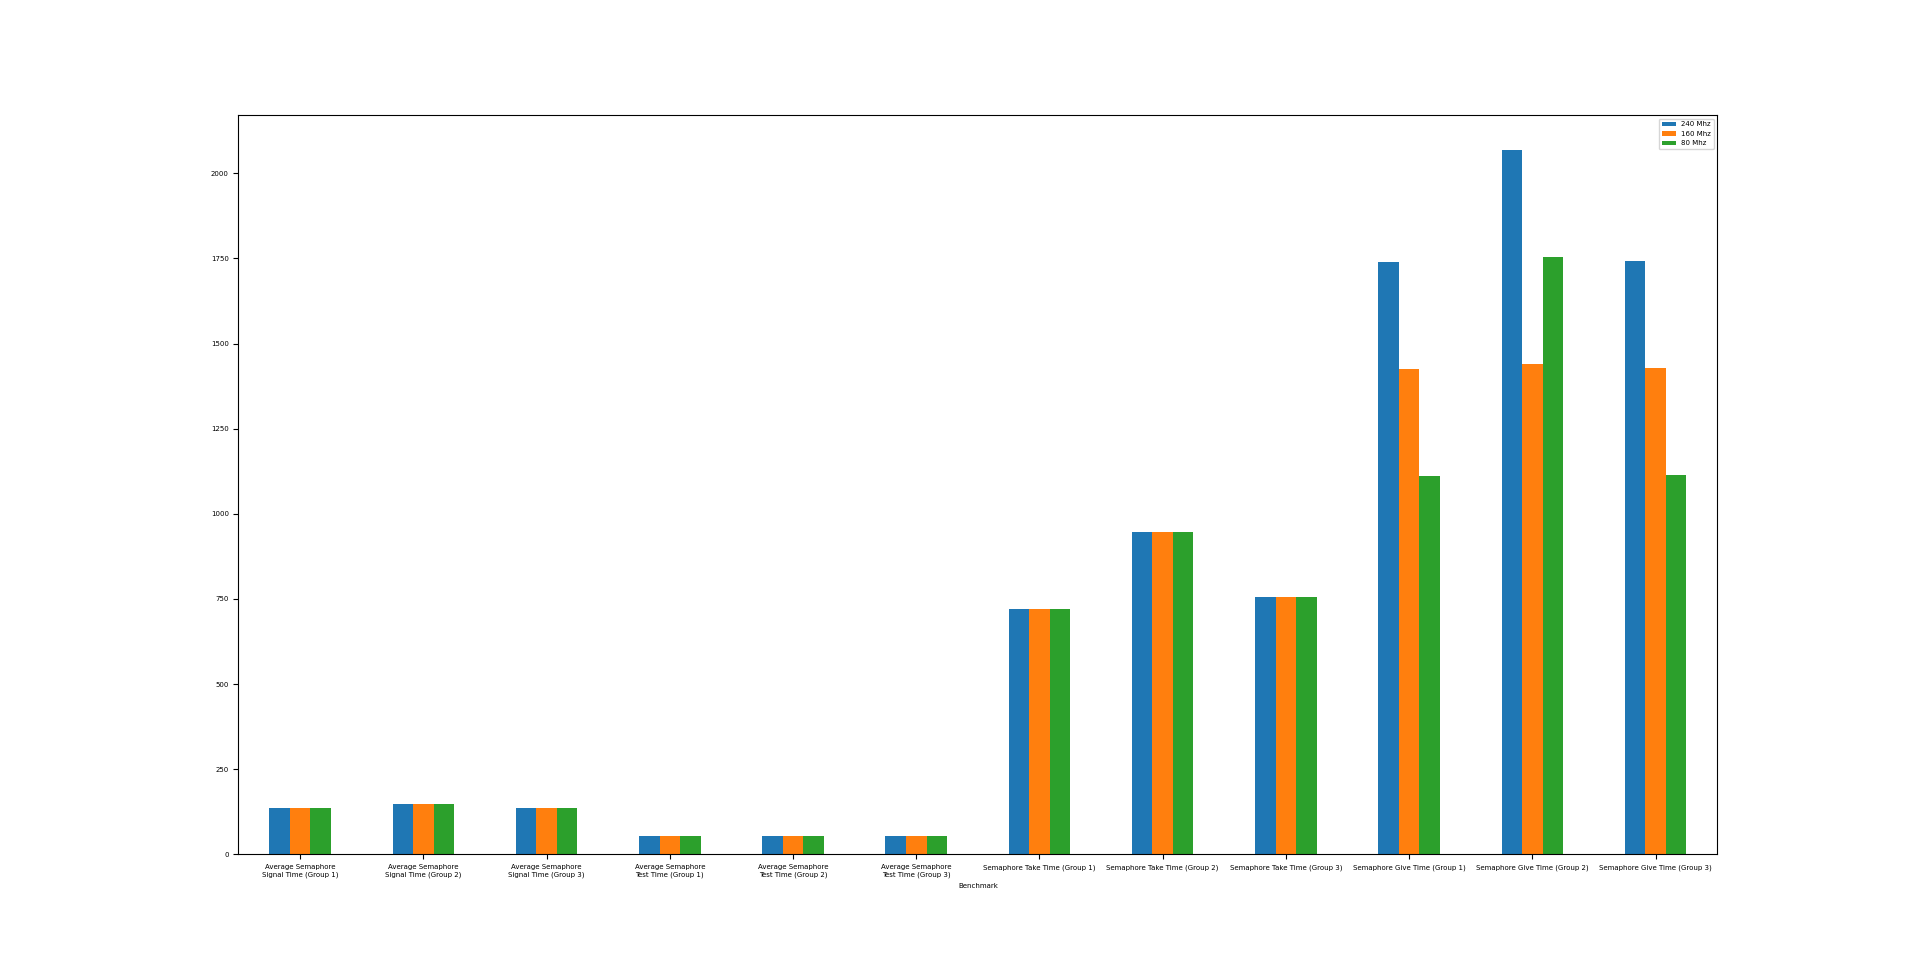
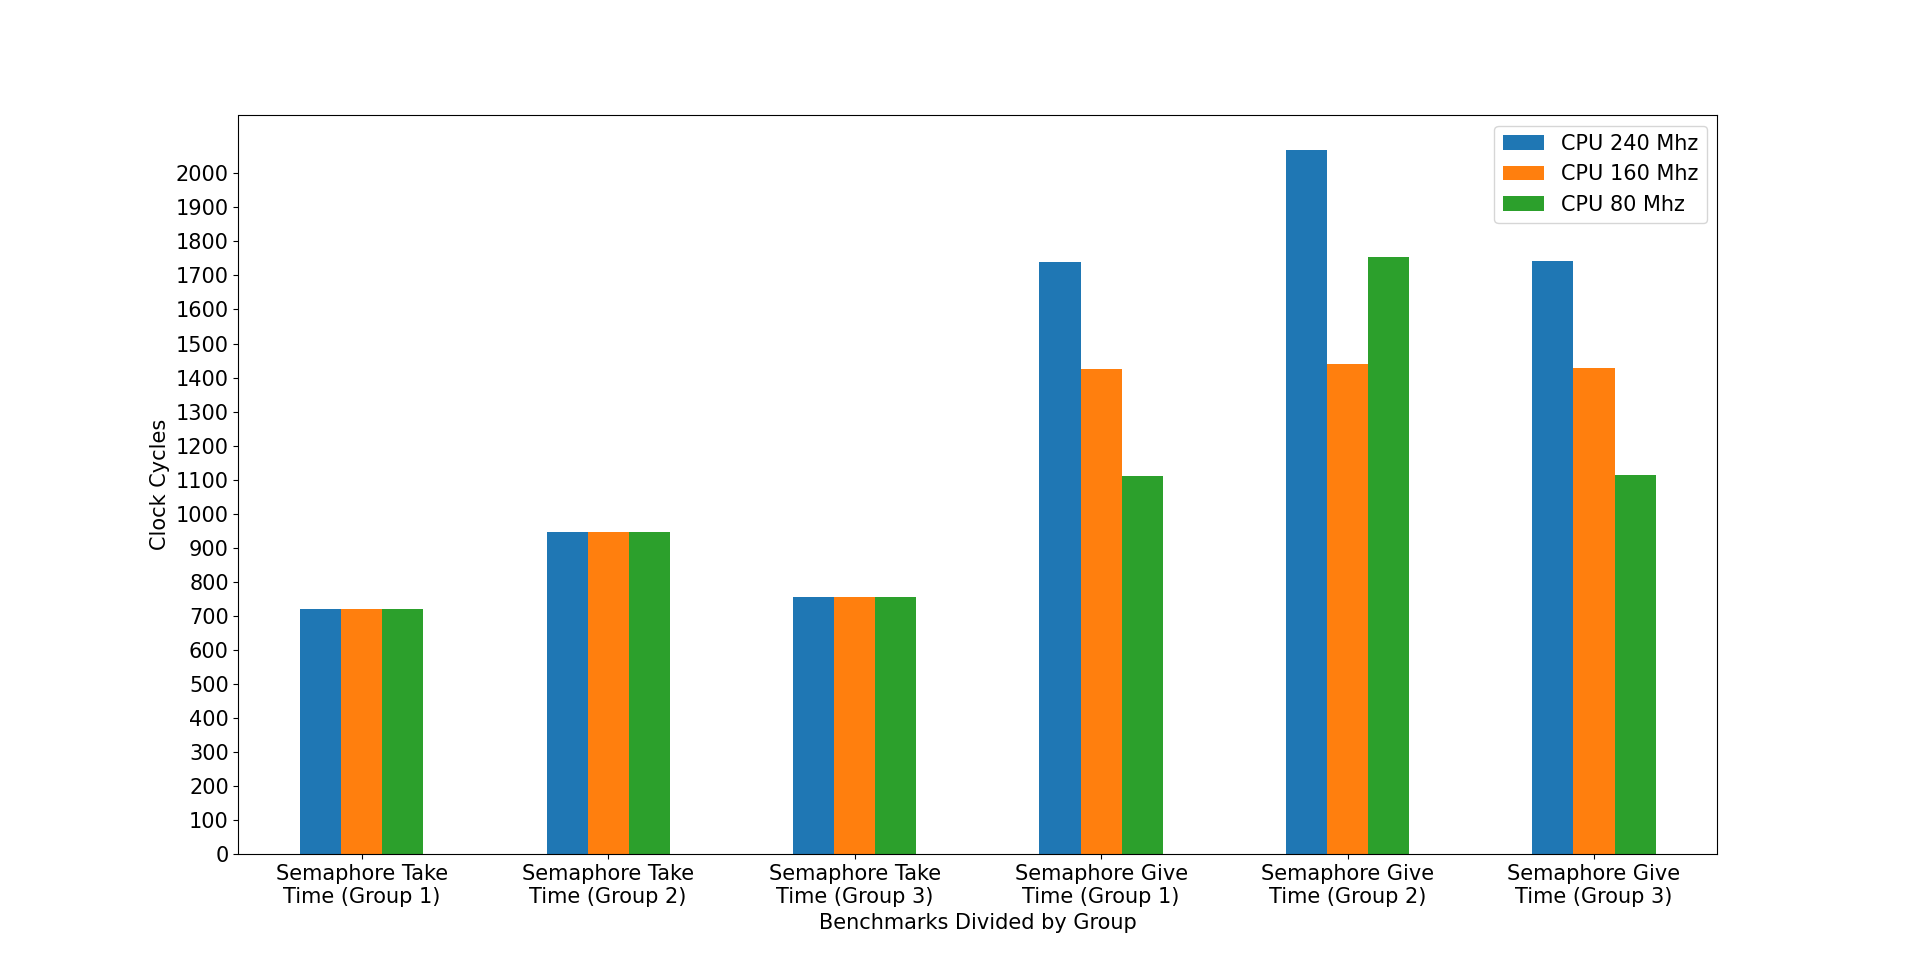
semifinal

Changed region(s): [[0.4022, 0.125, 0.8972, 0.9688], [0.0619, 0.1562, 0.3713, 0.9375]]

diff --git a/stacked_columns.py b/stacked_columns.py
@@ -1,6 +1,7 @@
 import pandas as pd
 import matplotlib.pyplot as mp
- 
+import numpy as np
+
 mp.rcParams.update({'font.size': 15}) # must set in top
 
 # data to be plotted
@@ -26,15 +27,16 @@ data = [
         ["Semaphore Give\nTime (Group 3)", 1742, 1428, 1115]]
  
 # form dataframe from data
-df = pd.DataFrame(data, columns=["Benchmark", 
-                                 "240 Mhz", 
-                                 "160 Mhz",
-                                 "80 Mhz",
+df = pd.DataFrame(data, columns=["Benchmarks Divided by Group", 
+                                 "CPU 240 Mhz", 
+                                 "CPU 160 Mhz",
+                                 "CPU 80 Mhz",
                                 ])
  
 # plot multiple columns such as population and year from dataframe
-df.plot(x="Benchmark", y=["240 Mhz", "160 Mhz", "80 Mhz"],
-        kind="bar", figsize=(10, 10), rot =0)
+df.plot(x="Benchmarks Divided by Group", y=["CPU 240 Mhz", "CPU 160 Mhz", "CPU 80 Mhz"],
+        kind="bar", figsize=(10, 10), rot =0, yticks=np.arange(0, 2100, 100))
+mp.ylabel("Clock Cycles")
 
 # display plot
 mp.show()
